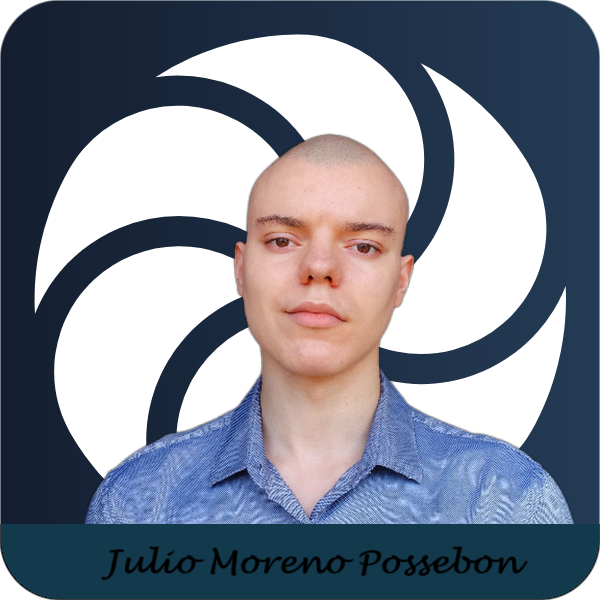
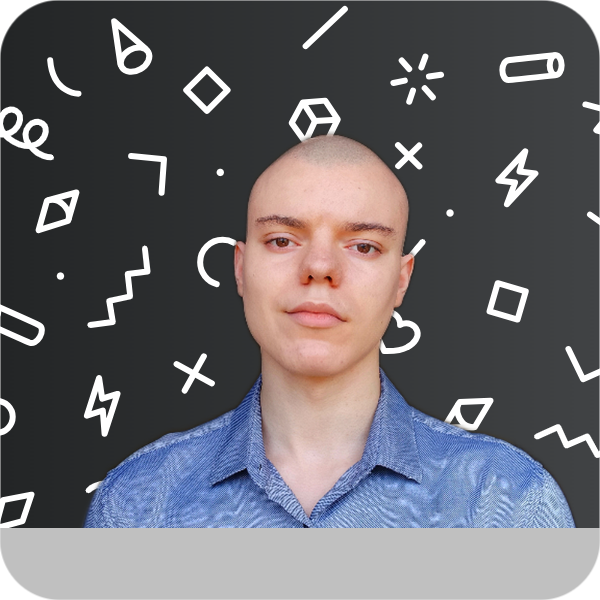
EndOfDayCommit(24)

diff --git a/index.html b/index.html
@@ -46,7 +46,7 @@
                 </div>
             </div>
         </section>
-        <!-- <img id="img1" class="Containerimg" src="assets/profile-pic (4).png" alt="Computer Science"> -->
+        <img id="img1" class="Containerimg" src="assets/profile-pic (4).png" alt="Computer Science">
     </main>
 
     <footer class="rodape">

diff --git a/style2.css b/style2.css
@@ -315,7 +315,7 @@ footer {
 
 .rodape__button {
     text-decoration: none;
-    color: var(--cor-destaque);
+    background-color: var(--cor-destaque);
 }
 
 
